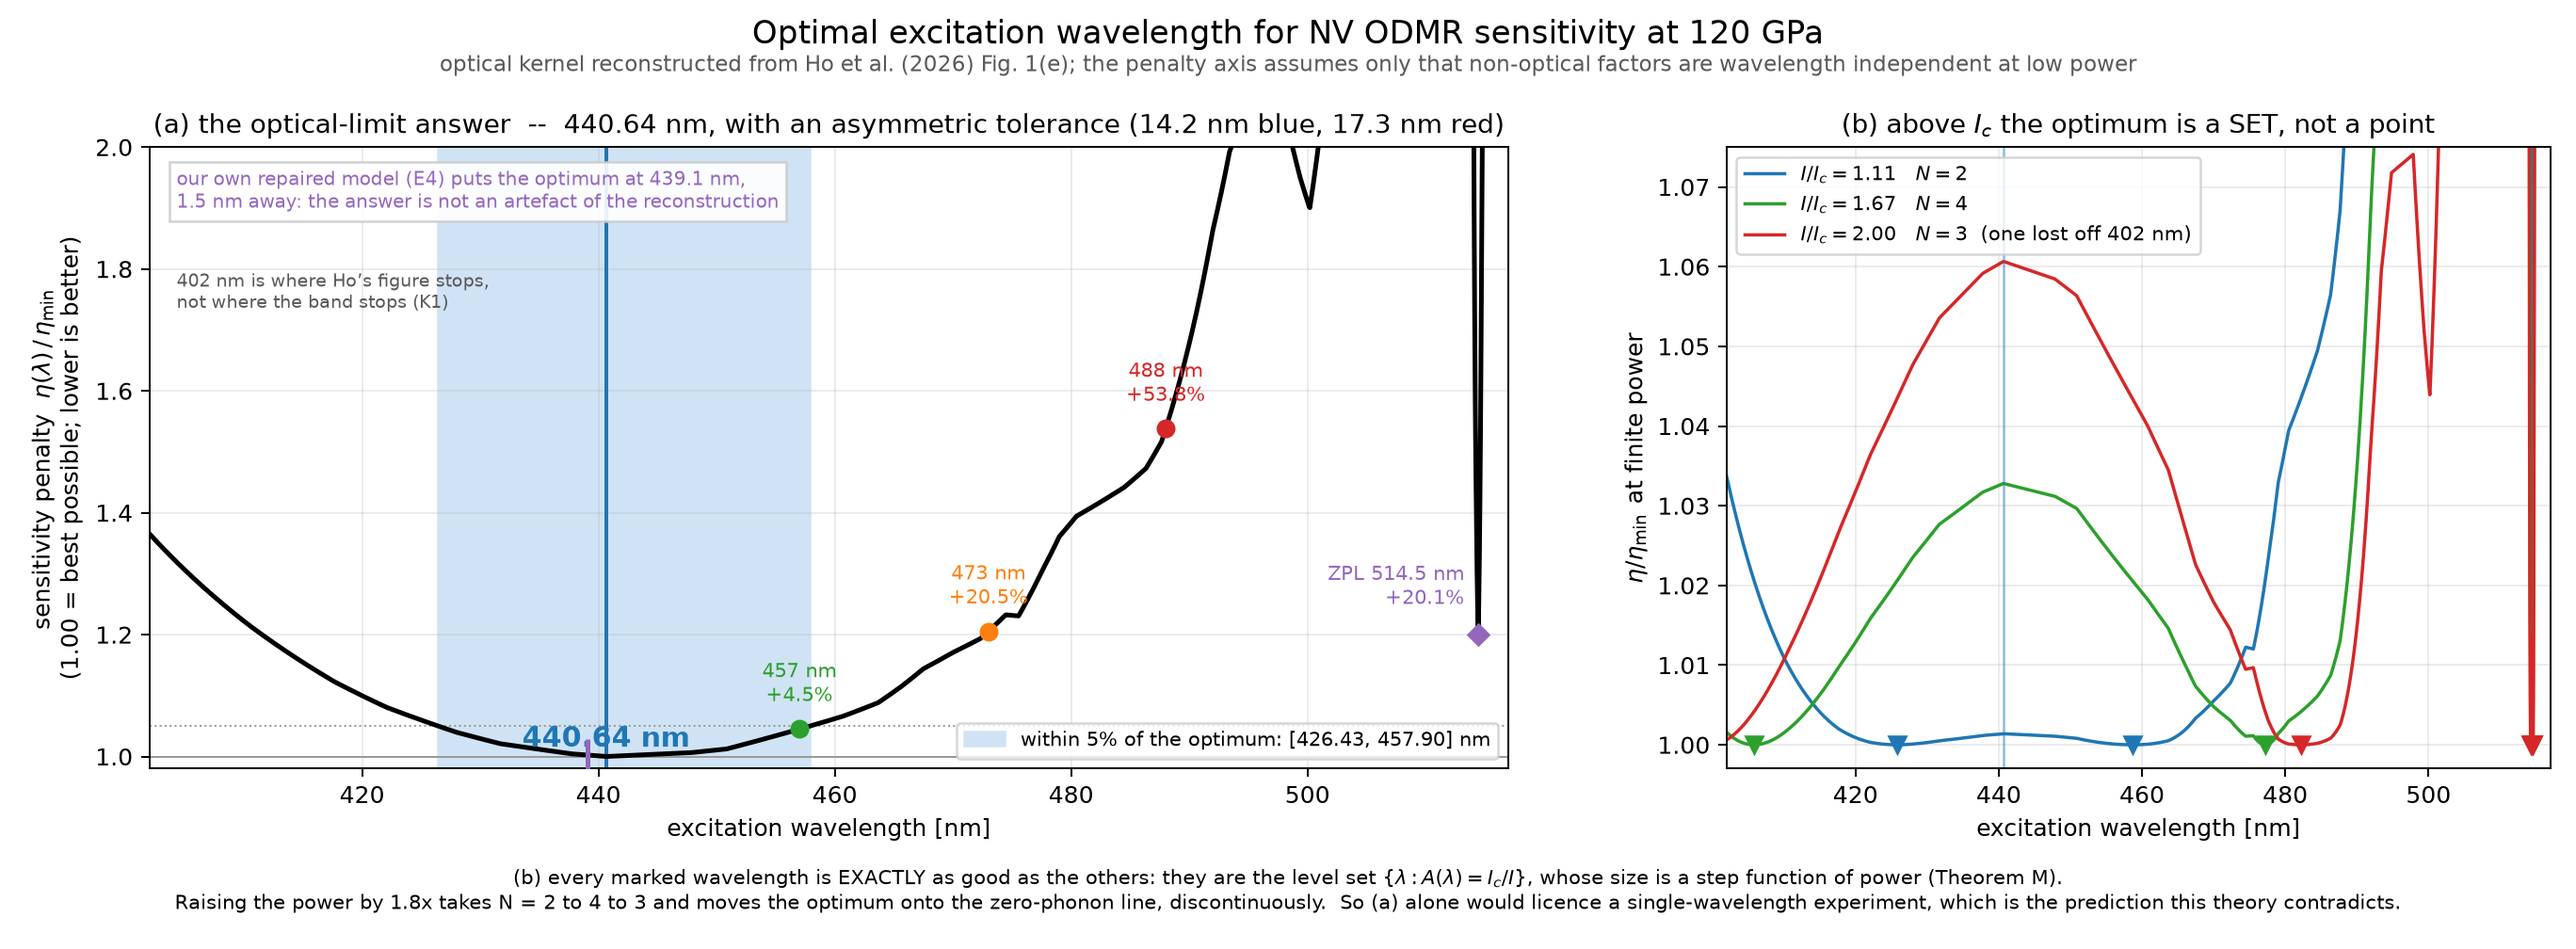
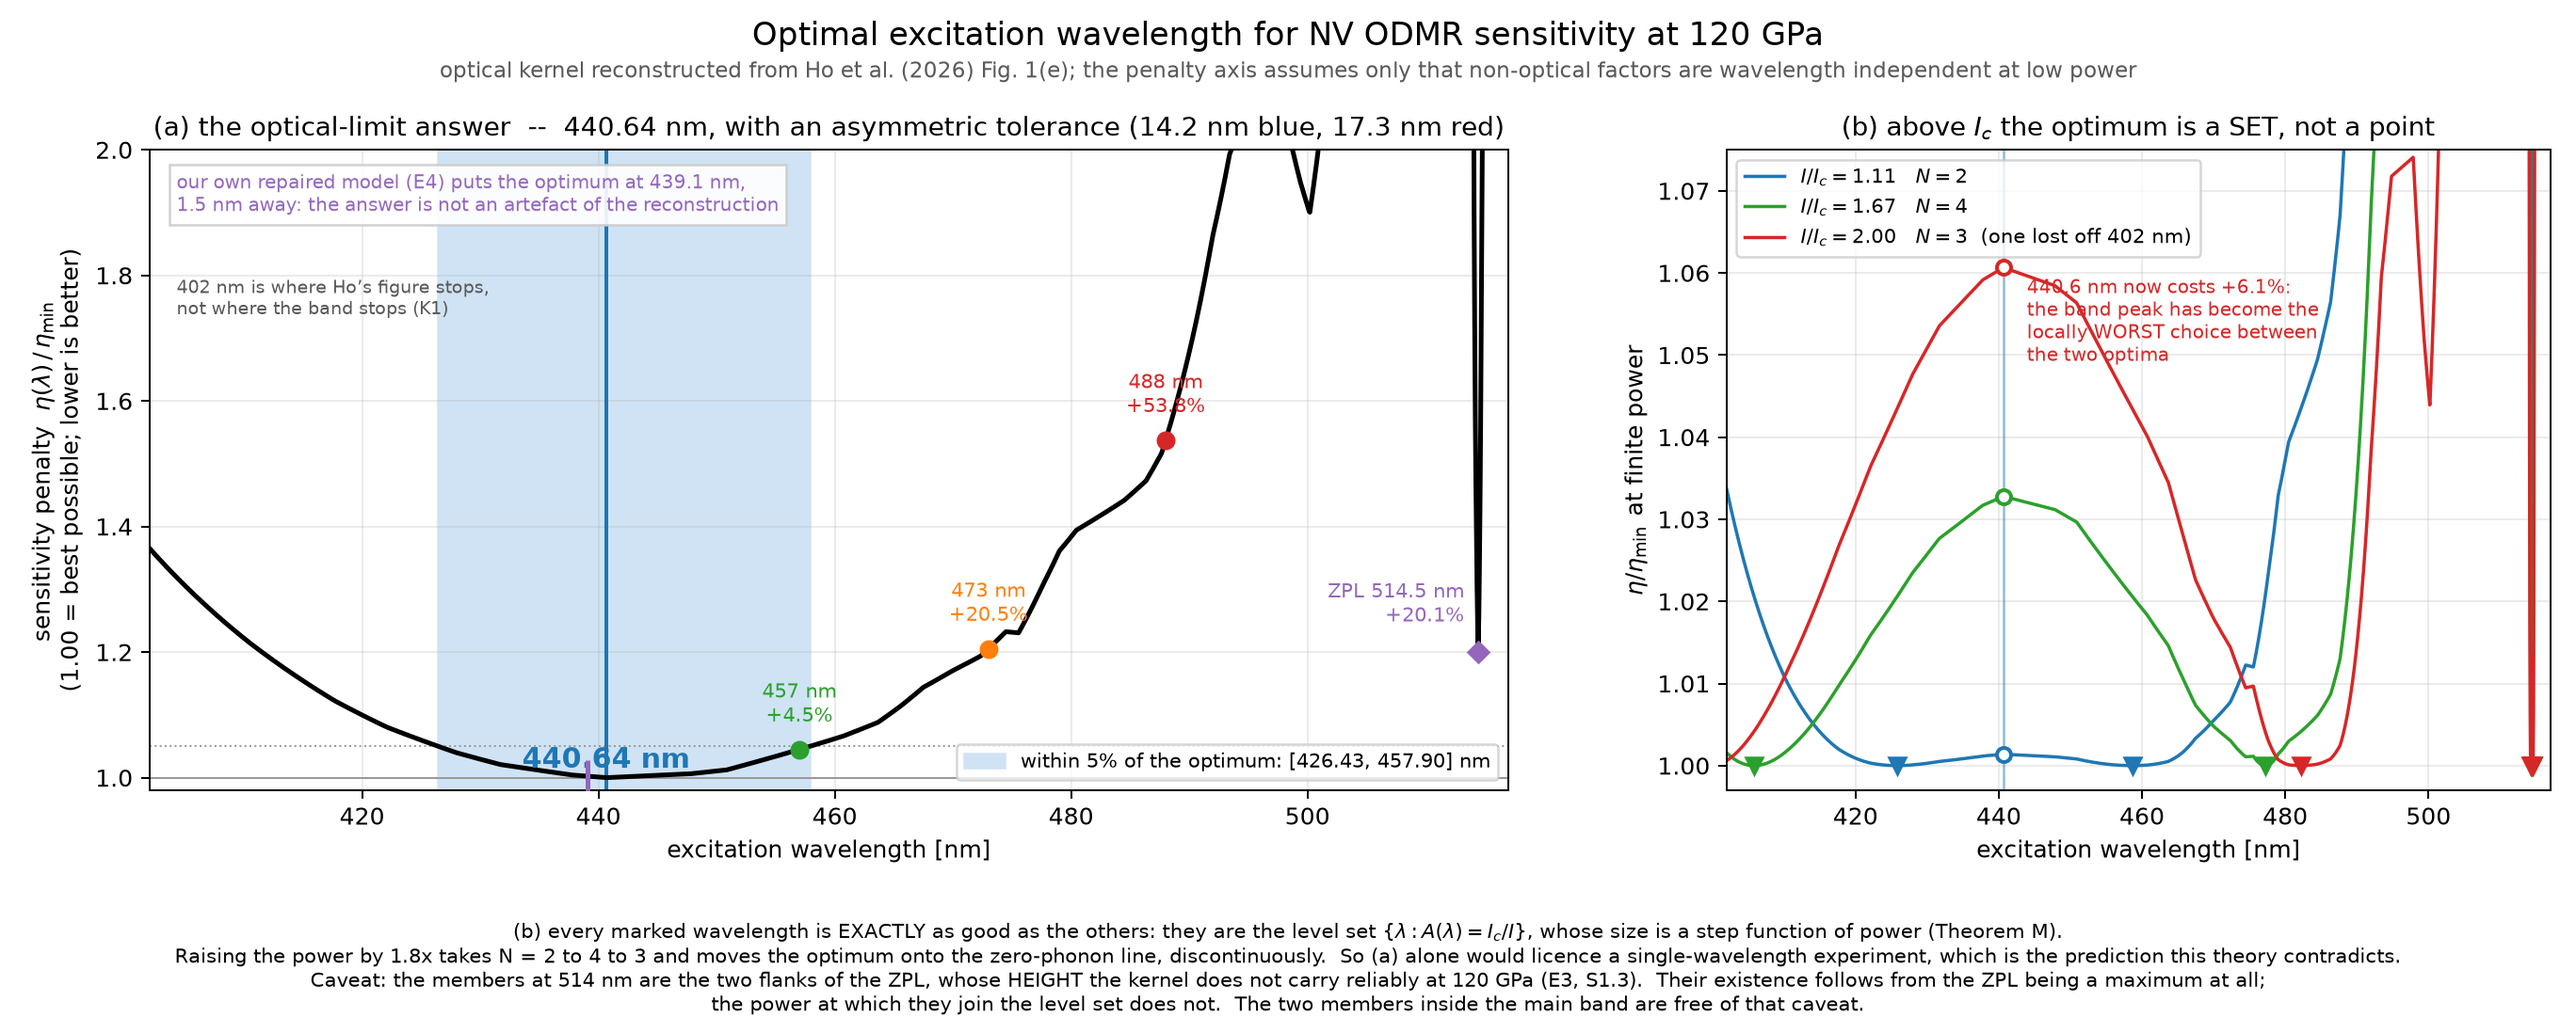
Show what 440.6 nm costs at finite power, and flag the ZPL rungs
Panel (b) marked where the optimum moves to but not what leaving the
optical-limit answer in place would cost, which is the sharper statement:
open circles now track 440.6 nm across the three powers, and at I/I_c = 2 it
is +6.1% -- the band peak has become the locally worst choice between the
two optima, not merely a suboptimal one.

The caption also now carries a caveat the panel needed: two of the four
members at I/I_c = 1.67, and two of the three at 2.00, are the flanks of the
ZPL, whose height the kernel does not carry reliably at 120 GPa (E3, S1.3).
Their existence follows from the ZPL being a local maximum, which S1.2
leaves intact; the power at which they join the level set does not. The
members inside the main band are free of it.

Claude-Session: https://claude.ai/code/session_01Cv2Yg4snpWjz7ZVfDPoPG9

diff --git a/code/fig9_optimum_120GPa.py b/code/fig9_optimum_120GPa.py
@@ -134,6 +134,17 @@ def panel_level_set(ax, kernel):
                          if result['truncated_blue'] else ''))
         for member in members:
             ax.plot([member], [1.0], 'v', color=colour, ms=7, zorder=5)
+        # what the optical-limit optimum now costs: it is no longer optimal
+        at_peak = float(np.interp(kernel.lam_abs, grid, eta / eta.min()))
+        ax.plot([kernel.lam_abs], [at_peak], 'o', color=colour, ms=6,
+                mfc='white', mew=1.6, zorder=6)
+        if ratio == 0.50:
+            ax.annotate(f'440.6 nm now costs +{100*(at_peak-1):.1f}%:\n'
+                        'the band peak has become the\n'
+                        'locally WORST choice between\nthe two optima',
+                        (kernel.lam_abs, at_peak), textcoords='offset points',
+                        xytext=(10, -4), fontsize=8.0, color=colour,
+                        ha='left', va='top')
 
     ax.axvline(kernel.lam_abs, color='tab:blue', lw=1.0, alpha=0.5)
     ax.set_xlim(*DATA_WINDOW)
@@ -149,7 +160,7 @@ def panel_level_set(ax, kernel):
 
 def main():
     kernel = Kernel()
-    fig, axes = plt.subplots(1, 2, figsize=(15.2, 5.6),
+    fig, axes = plt.subplots(1, 2, figsize=(15.2, 6.1),
                              gridspec_kw=dict(width_ratios=(1.65, 1.0)))
     panel_answer(axes[0], kernel)
     counts = panel_level_set(axes[1], kernel)
@@ -163,7 +174,7 @@ def main():
              'wavelength independent at low power',
              ha='center', fontsize=9.0, color='0.35')
     fig.text(
-        0.5, 0.035,
+        0.5, 0.015,
         '(b) every marked wavelength is EXACTLY as good as the others: they '
         r'are the level set $\{\lambda: A(\lambda)=I_c/I\}$, whose size is '
         'a step function of power (Theorem M).\n'
@@ -171,9 +182,14 @@ def main():
         f'N = {counts[0][1]} to {counts[1][1]} to {counts[2][1]} and moves the '
         'optimum onto the zero-phonon line, discontinuously.  So (a) alone '
         'would licence a single-wavelength experiment, which is the '
-        'prediction this theory contradicts.',
+        'prediction this theory contradicts.\n'
+        'Caveat: the members at 514 nm are the two flanks of the ZPL, whose '
+        'HEIGHT the kernel does not carry reliably at 120 GPa (E3, S1.3).  '
+        'Their existence follows from the ZPL being a maximum at all;\n'
+        'the power at which they join the level set does not.  The two '
+        'members inside the main band are free of that caveat.',
         ha='center', va='bottom', fontsize=8.5)
-    fig.subplots_adjust(left=0.058, right=0.99, top=0.845, bottom=0.19,
+    fig.subplots_adjust(left=0.058, right=0.99, top=0.855, bottom=0.235,
                         wspace=0.20)
     fig.savefig(OUT, dpi=180)
 
